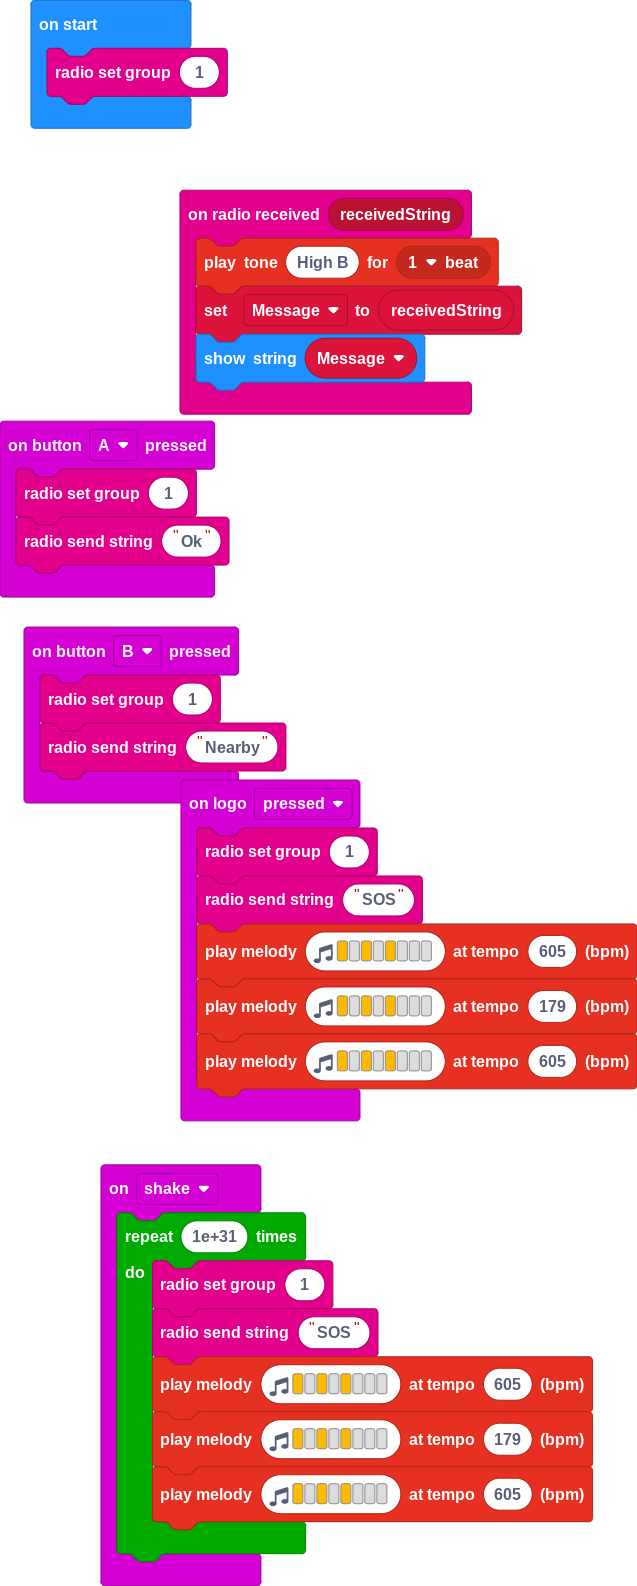
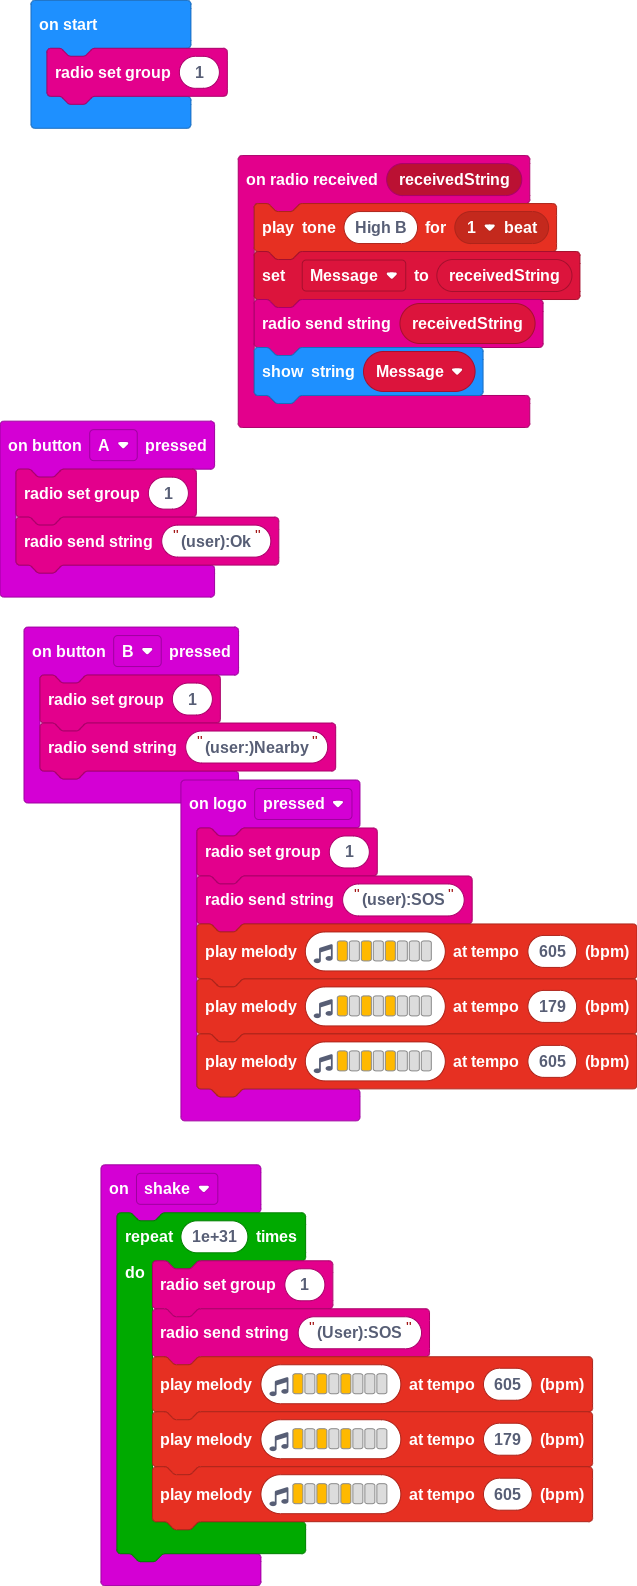
Modifications to make communication more precise and also auto-forward

diff --git a/main.ts b/main.ts
@@ -1,20 +1,21 @@
 input.onButtonPressed(Button.A, function () {
     radio.setGroup(1)
-    radio.sendString("Ok")
+    radio.sendString("(user):Ok")
 })
 radio.onReceivedString(function (receivedString) {
     music.playTone(988, music.beat(BeatFraction.Whole))
     Message = receivedString
+    radio.sendString(receivedString)
     basic.showString(Message)
 })
 input.onButtonPressed(Button.B, function () {
     radio.setGroup(1)
-    radio.sendString("Nearby")
+    radio.sendString("(user:)Nearby")
 })
 input.onGesture(Gesture.Shake, function () {
     for (let index = 0; index < 1e+31; index++) {
         radio.setGroup(1)
-        radio.sendString("SOS")
+        radio.sendString("(User):SOS")
         music.playMelody("A - A - A - - - ", 605)
         music.playMelody("A - A - A - - - ", 179)
         music.playMelody("A - A - A - - - ", 605)
@@ -22,7 +23,7 @@ input.onGesture(Gesture.Shake, function () {
 })
 input.onLogoEvent(TouchButtonEvent.Pressed, function () {
     radio.setGroup(1)
-    radio.sendString("SOS")
+    radio.sendString("(user):SOS")
     music.playMelody("A - A - A - - - ", 605)
     music.playMelody("A - A - A - - - ", 179)
     music.playMelody("A - A - A - - - ", 605)
